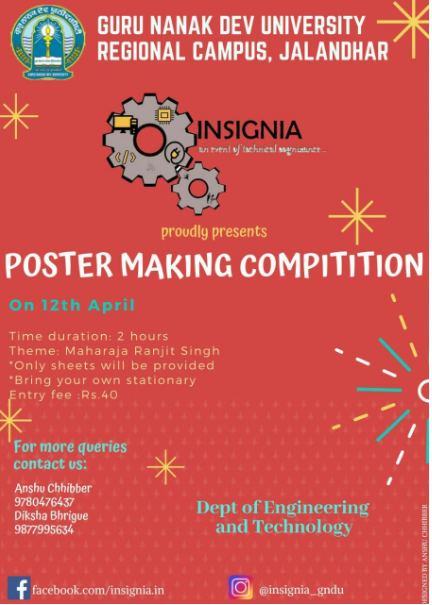
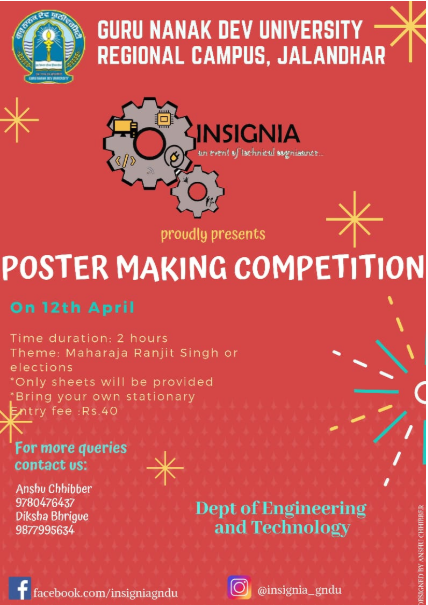
changed art events

diff --git a/art/calligraphy.html b/art/calligraphy.html
@@ -68,23 +68,23 @@
               </div>
               <div class="col-sm-9 card" id="rules">
                     Calligraphy is an art form that uses ink and a brush to express the very souls of words on paper.
-                <br>    Rules for competition:-
-                <br>    It is an individual Competition.
-                <br>    Entry fee: Rs 30
-                <br>    Each Participant will get 1Hr to complete their poster.
-                <br>    We will provideDrawing Sheets to the participants.
-                <br>    Participants should bring their own stationary.
-                <br>    The Subject matter will be the choice of participants but it should represent a decent motivational or inspirational thoughts.
-                <br>    Judgment criterion will be based on Creativity, Design, Calligraphy Technique Content Clarity and elements present.
-                <br>    Decision of Judge will be final and binding.
-                <br>    Date: 12th April,2019
-                <br>    Time: 01:00 pm – 02:00 pm
-                <br>    Pay via PAYTM ON: 8699665731
-                <br>    Any query contact:
-                <br>    Girja(8837743391)
-                <br>    Kanika(6239987893)
-                <br>    #INSIGNIA2k19
-                <br>    #Paving_Paths
+                    <br>    Rules for competition:-
+                    <br>    •It is an individual competition.
+                    <br>    •Entry fee: Rs 30
+                    <br>    •Each Participant will get 1 Hr to complete their poster.
+                    <br>    •We will provide Drawing Sheets to the participants.
+                    <br>    •Participants should bring their own stationary.
+                    <br>    •The Subject matter will be the choice of participants but it should represent a decent motivational or inspirational thoughts or about elections
+                    <br>    •Judgment criterion will be based on Creativity, Design, Calligraphy Technique Content Clarity and elements present.
+                    <br>    •Decision of Judge will be final and binding.
+                    <br>    •Date: 12th April,2019
+                    <br>    •Time: 01:00 pm – 02:00 pm
+                    <br>    •Pay via PAYTM ON: 8699665731
+                    <br>    Any query contact:
+                    <br>    Girja(8837743391)
+                    <br>    Kanika(6239987893)
+                    <br>    #INSIGNIA2k19
+                    <br>    #Paving_Paths
 
 
               </div>

diff --git a/art/flower.html b/art/flower.html
@@ -68,22 +68,22 @@
               </div>
               <div class="col-sm-9 card" id="rules">
                     Go outside! I mean, even leaves from a park are beautiful in a clear glass vase. I’d rather see that than fake anything any day…
-                <br>    GNDU RC presents you a flower arrangement competition with rules as: 
-                <br>    Team of 2
-                <br>    Entry fee: Rs 80
-                <br>    Time limit- 1 hour
-                <br>    Bring your own material
-                <br>    Only fresh flowers allowed
-                <br>    Judgement will be on your creativity, neatness and presentation
-                <br>    Your creations will be displayed in the art exhibition
-                <br>    Date: 11th April,2019
-                <br>    Time: 11:00 am – 12:00pm
-                <br>    Pay via PAYTM ON: 8699665731
-                <br>    Any query contact:
-                <br>    Ayushi(9915242881)
-                <br>    Priyanka(8708618415)
-                <br>    #INSIGNIA2k19
-                <br>    #Paving_Paths
+                    <br>    GNDU RC presents you a flower arrangement competition with rules as: 
+                    <br>    •Team of 2
+                    <br>    •Entry fee: Rs 80
+                    <br>    •Time limit- 1 hour
+                    <br>    •Bring your own material
+                    <br>    •All type of flowers allowed
+                    <br>    •Judgement will be on your creativity, neatness and presentation
+                    <br>    •You can take your product with you after the judgement
+                    <br>    •Date: 11th April,2019
+                    <br>    •Time: 11:00 am – 12:00pm
+                    <br>    •Pay via PAYTM ON: 8699665731
+                    <br>    Any query contact:
+                    <br>    Harsh(9988008201)
+                    <br>    Girja(9041658925)
+                    <br>    #INSIGNIA2k19
+                    <br>    #Paving_Paths
 
               </div>
           </div>

diff --git a/art/poster.html b/art/poster.html
@@ -67,22 +67,22 @@
                     <img src="../img/poster.PNG" width="100%"></img>
               </div>
               <div class="col-sm-9 card" id="rules">
-                    Unleash your talent and let your canvas be your poster.
-                <br>    Rules:-
-                <br>    Theme- Maharaja Ranjit Singh 
-                <br>    Time limit- 2 hour
-                <br>    Entry fee: 40
-                <br>    Bring your own stationary. Only sheets will be provided
-                <br>    Judgement will be on your creativity, neatness and presentation
-                <br>    Your creations will be displayed in the art exhibition
-                <br>    Date: 12th April,2019
-                <br>    Time: 11:00 am – 1:00pm
-                <br>    Pay via PAYTM ON: 8699665731
-                <br>    Any query contact:
-                <br>    AnshuChhibber(9780476437)
-                <br>    Diksha Bhrigue(9877995634)
-                <br>    #INSIGNIA2k19
-                <br>    #Paving_Paths
+                   Unleash your talent and let your canvas be your poster.
+                    <br>    Rules:-
+                    <br>    •Theme- Maharaja Ranjit Singh or Elections
+                    <br>    •Time limit- 2 hour
+                    <br>    •Entry fee: 40
+                    <br>    •Bring your own stationary. Only sheets will be provided
+                    <br>    •Judgement will be on your creativity, neatness and presentation
+                    <br>    •Your creations will be displayed in the art exhibition
+                    <br>    •Date: 12th April,2019
+                    <br>    •Time: 11:00 am – 1:00pm
+                    <br>    •Pay via PAYTM ON: 8699665731
+                    <br>    Any query contact:
+                    <br>    Anshu Chhibber(9780476437)
+                    <br>    Diksha Bhrigue(9877995634)
+                    <br>    #INSIGNIA2k19
+                    <br>    #Paving_Paths
 
 
               </div>

diff --git a/art/exhibition.html b/art/exhibition.html
@@ -68,14 +68,14 @@
               </div>
               <div class="col-sm-9 card" id="rules">
                    Making art is not the matter of a moment, and nor is making an exhibition; curating follows art.
-                <br>    Entry fee: 20 for one and 30 for two creation
-                  <br>    Participants can present any of their painting or art and craft material in the exhibition
-                <br>    The belongings will be returned after the exhibition
-                <br>    Every participant has to mention the  name with their belongings The visitors will put a chit in a bowl with the name of creator of their choice The participant with maximum votes will be given amazing prizes
-                <br>    Only entries of Art Exhibition will be returned n not that of any other material from some competitions
-                <br>    Date: 12th April,2019
-                <br>    Time: 09:00 pm – 05:00 pm
-                <br>    Pay via PAYTM ON: 8699665731
+                <br>    •Entry fee: 20 for one and 30 for two creations
+                <br>    •Participants can present any of their painting or art and craft material in the exhibition
+                <br>    •Every participant has to mention the  name with their belongings The visitors will put a chit in a bowl with the name of creator of their choice The participant with maximum votes will be given amazing prizes
+                <br>    •The belongings will be returned after the exhibition
+                <br>    •Only n only Best out of waste competition material which will be displayed in exhibition will be returned
+                <br>    •Date: 12th April,2019
+                <br>    •Time: 09:00 pm – 05:00 pm
+                <br>    •Pay via PAYTM ON: 8699665731
                 <br>    Any query contact:
                 <br>    Harsimrat(9041938664)
                 <br>    Hareram(8651992665)
